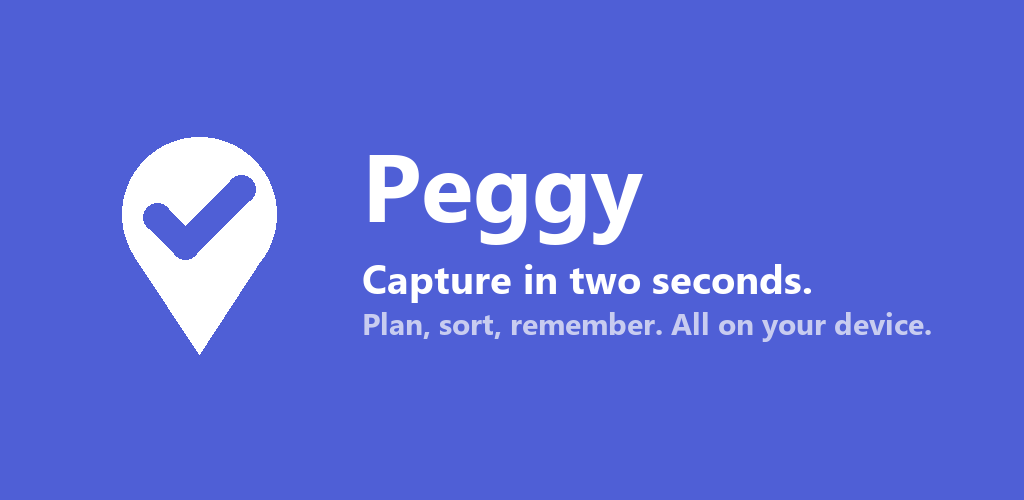
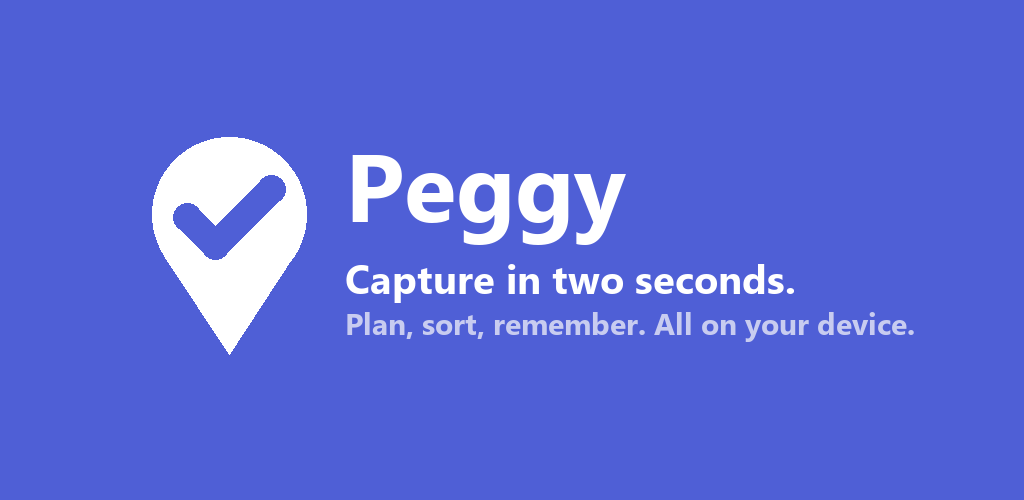
Feature graphic: pin and text closer, group centred

Changed region(s): [[0.3125, 0.3, 0.9062, 0.69], [0.0938, 0.27, 0.3125, 0.72]]

diff --git a/docs/assets/make.py b/docs/assets/make.py
@@ -35,10 +35,10 @@ def pin_glyph(draw, x, y, scale, colour=WHITE, ink=BRAND):
 def feature_graphic():
     im = Image.new("RGB", (1024, 500), BRAND)
     d = ImageDraw.Draw(im)
-    pin_glyph(d, 10, 60, 3.5)
-    d.text((362, 118), "Peggy", font=font(96), fill=WHITE)
-    d.text((362, 250), "Capture in two seconds.", font=font(40), fill=WHITE)
-    d.text((362, 302), "Plan, sort, remember. All on your device.", font=font(30), fill=MUTED)
+    pin_glyph(d, 40, 60, 3.5)
+    d.text((345, 118), "Peggy", font=font(96), fill=WHITE)
+    d.text((345, 250), "Capture in two seconds.", font=font(40), fill=WHITE)
+    d.text((345, 302), "Plan, sort, remember. All on your device.", font=font(30), fill=MUTED)
     im.save(HERE / "feature-graphic-1024x500.png")
 
 
